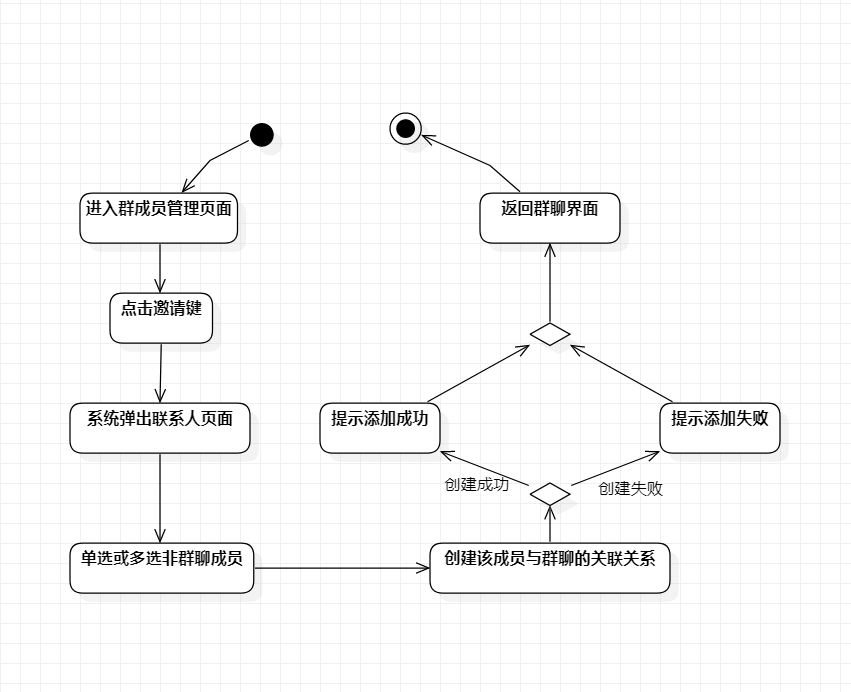
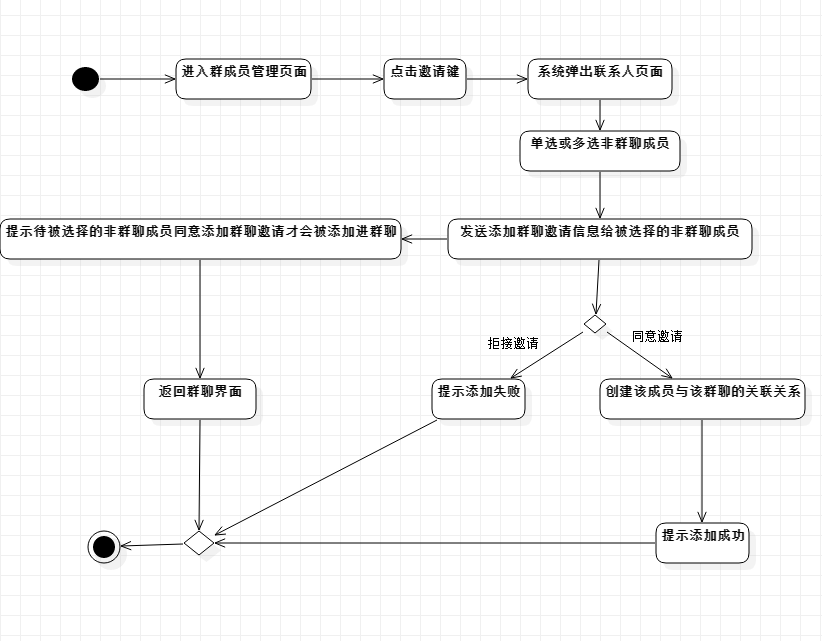
#3

diff --git a/students/1714080902340/实验3：过程建模.md b/students/1714080902340/实验3：过程建模.md
@@ -17,7 +17,9 @@
 ## 4. 实验结果
 
 1. 活动图1——![Lab3_删除群聊中某成员.jpg](https://raw.githubusercontent.com/CapWu/uml-modeling-2020/master/students/1714080902340/Lab3_1.png)
+
 2. 活动图2——![Lab3_添加非群聊成员.jpg](https://raw.githubusercontent.com/CapWu/uml-modeling-2020/master/students/1714080902340/Lab3_2.png)
+
 3. 修改后的用例规约
 
 - 表1：删除群聊中某成员用例规约
@@ -29,12 +31,13 @@
 后置条件  |    | *可选*   
 基本流程  | 1. 群主点击进入群成员管理页面；  |*用例执行成功的步骤*    
 ~| 2. 群主点击选择某一想要从该群聊中删除的成员；  |   
-~| 3. 系统弹框给群主确认删除该成员；  |
-~| 4. 群主点击确认按钮确认删除该成员； |
-~| 5. 系统删除该成员的群聊关联关系； |   
-~| 6. 系统提示删除成功并返回群聊页面； |
-扩展流程  | 5.1 系统出错，提示删除失败 |
-| 5.2 系统返回群聊页面 |*用例执行失败*
+~| 3. 系统查询删除该成员后群聊剩余人数，群聊剩余人数大于1； |
+~| 4. 系统删除该成员的群聊关联关系；|
+~| 5. 系统提示删除成功并返回群聊页面； |
+扩展流程  | 3.1 群聊剩余人数等于1，系统提示如果执行删除该成员操作将解除群聊；  |
+| 3.2 确认执行删除成员操作；                                             |*用例执行失败*
+|3.3 系统删除所有群聊信息； |
+|3.4 返回程序主界面；|
 
 
 - 表2：添加非群聊成员用例规约
@@ -48,8 +51,11 @@
 ~| 2. 群主或群成员点击邀请键；  |   
 ~| 3. 系统弹出联系人页面；  |   
 ~| 4. 群主或群成员单选或多选非群聊成员；  |   
-~| 5. 系统创建该成员与该群聊的关联关系，保存关联关系； |  
-~| 6. 系统弹框给群主或群成员提示添加成功； |
-~| 7. 群主或群成员点击弹框确认键并返回群聊页面；|
-扩展流程  | 5.1 系统出错，提示添加失败 |
-|5.2 返回群聊页面|*用例执行失败*    
+~| 5. 系统发送添加群聊邀请信息给待被选择的非群聊成员； |
+~| 6. 系统提示群主或群成员待被选择的非群聊成员同意添加群聊邀请才会被添加进群聊；|
+~| 7. 系统返回群聊界面；|
+~| 8. 被选择的非群聊成员同意添加群聊邀请信息； |
+~| 9. 系统创建该成员与该群聊的关联关系； |  
+~| 10. 系统提示群主或群成员添加成功； |
+扩展流程  |   8.1 被选择的非群聊成员拒接添加群聊邀请   |
+| 8.2 系统提示群主或群成员添加失败 |*用例执行失败*    
